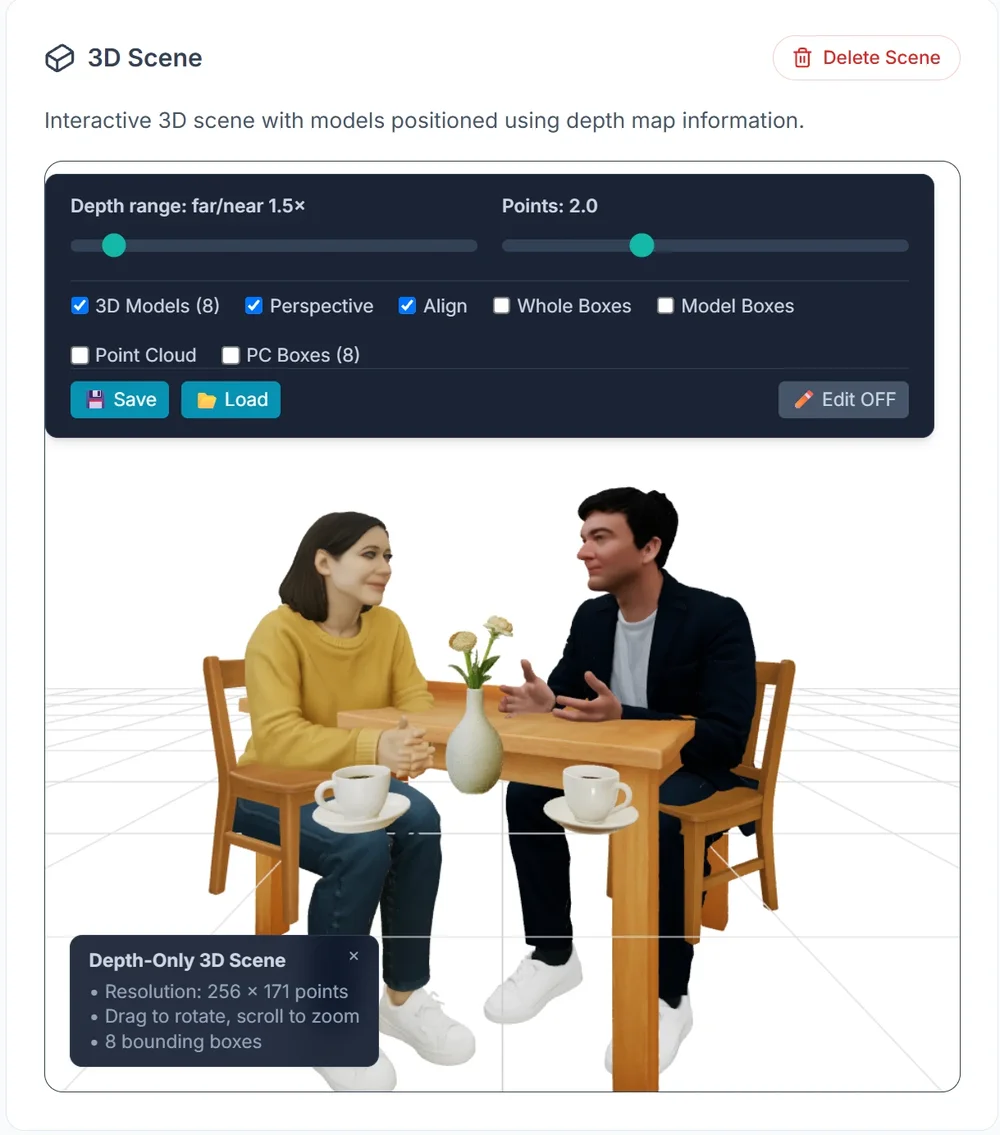
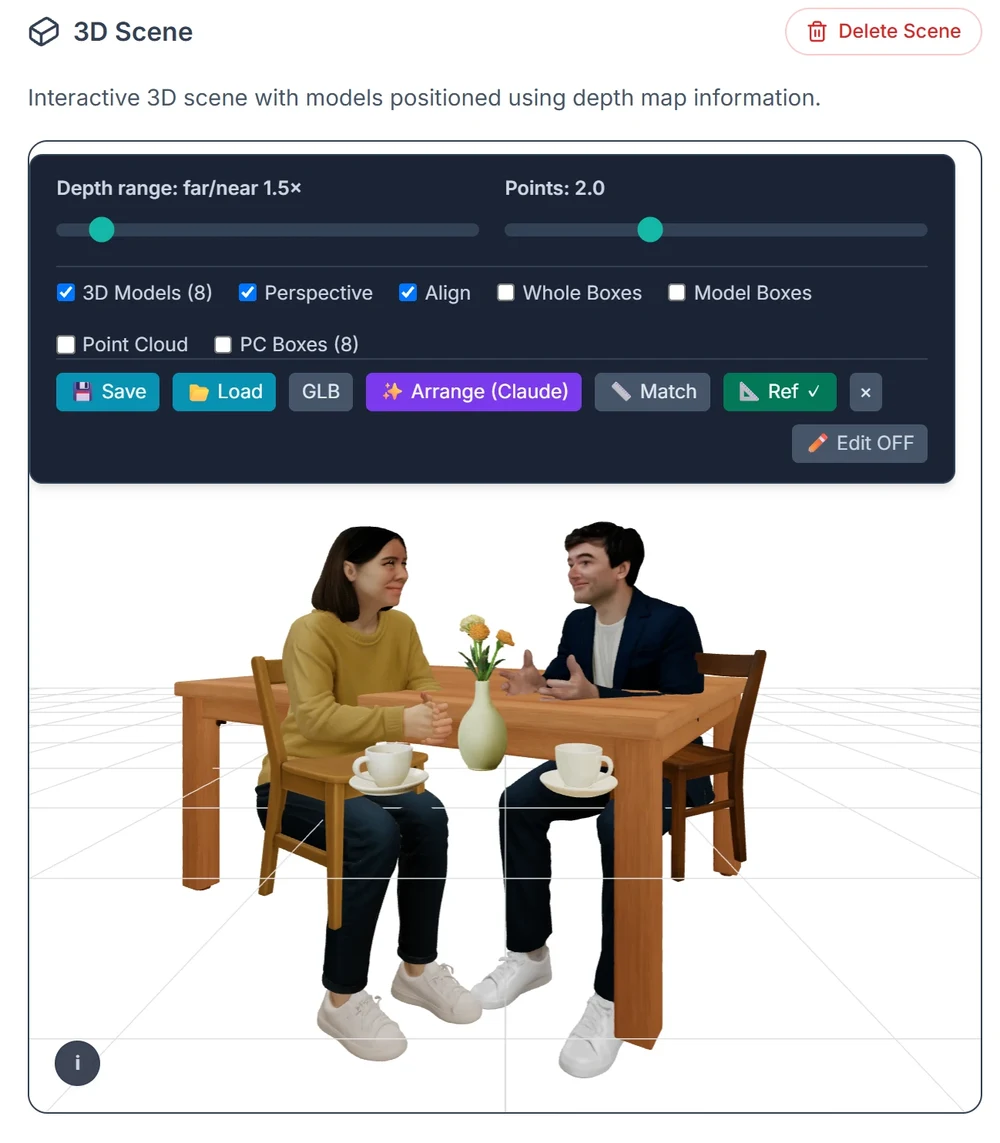
README: before/after images of Arrange; update scene and 3D Scene tab images
Claude-Session: https://claude.ai/code/session_017F2L64VSaLMVjz2Lii7x6Z

diff --git a/README.md b/README.md
@@ -68,7 +68,7 @@ Results of the current version. Detection and completion use OpenAI (only the ri
   </tr>
   <tr>
     <td width="50%"><img src="docs/images/scene-result.webp" alt="3D scene"><br><sub><b>Scene composition</b> — the 8 objects are placed with perspective at the depth of their PC Boxes. The chairs, of which only the backrests are visible, stand behind the people; the table, visible only as the front of its top, is still placed only roughly.</sub></td>
-    <td width="50%"><img src="docs/images/step7-scene-ui.webp" alt="3D scene with its controls"><br><sub><b>3D Scene tab</b> — the scene and its controls: depth range, point size, <b>Perspective</b>, <b>Align</b> (front alignment), boxes and point cloud, <b>Save</b> / <b>Load</b> of the layout, and <b>Edit</b> for moving models by hand.</sub></td>
+    <td width="50%"><img src="docs/images/step7-scene-ui.webp" alt="3D scene with its controls"><br><sub><b>3D Scene tab</b> — the scene and its controls: depth range, point size, <b>Perspective</b>, <b>Align</b> (front alignment), boxes and point cloud, <b>Save</b> / <b>Load</b> of the layout, <b>GLB</b> export, <b>✨ Arrange</b> (semantic arrangement with AI), <b>Match</b> (photo match), <b>Ref</b> (reference analysis for evaluation), and <b>Edit</b> for moving models by hand.</sub></td>
   </tr>
   <tr>
     <td width="50%"><img src="docs/images/scene-edited.webp" alt="3D scene edited by hand"><br><sub><b>Edited by hand</b> — the table and chairs of the sample moved and resized in edit mode (<b>Edit ON</b>, Move and Scale), seen from above: the cups and the vase now stand on the table and the people sit on their chairs.</sub></td>
@@ -140,6 +140,14 @@ The best final runs with Claude (`claude-opus-5-5`, effort high, at most 6 round
 - **The weighted photo match counts each object by its area in the photo.** Objects seen only as thin strips at the borders (the chairs) or hidden behind others otherwise weigh as much as the people in the mean. `office-desk` matched the photo well from the start, so it changed little.
 - **In `table-talk`, the analysis matches the photo.** It reads that the two people sit on both sides of a corner of the table. The model keeps the table corner-on, as front alignment measured it, and puts the corner between them. In this run the generated table was about 4 m wide; the model scaled it down to real size.
 
+<table>
+  <tr>
+    <td width="33%"><img src="samples/table-talk.webp" alt="Input photo of table-talk"><br><sub><b>Photo</b> — two people sit on both sides of a corner of the table.</sub></td>
+    <td width="33%"><img src="docs/images/arrange-table-talk-before.webp" alt="Scene before Arrange, with a huge table"><br><sub><b>Before Arrange</b> — automatic placement: the generated table is about 4 m wide and stands behind the people; cups and chairs float.</sub></td>
+    <td width="33%"><img src="docs/images/arrange-table-talk-after-claude.webp" alt="Scene after Arrange with Claude"><br><sub><b>After Arrange (Claude)</b> — the table at real size in front of the people, kept corner-on; cups and vase on the top, each person on a chair. Physical issues 7 → 0.</sub></td>
+  </tr>
+</table>
+
 Claude and OpenAI (`gpt-5.6-sol`) on the same four scenes (same models, same starting placement):
 
 | | Claude | OpenAI |
@@ -151,6 +159,13 @@ Claude and OpenAI (`gpt-5.6-sol`) on the same four scenes (same models, same sta
 | Error of the real heights in the analysis | **2.9%** | 12.2% |
 | Objects other than people stretched along one axis | 3 (tables and a desk generated too low) | 10 (cups, chairs, a wastebasket, a lamp; tables flattened) |
 | Rounds, mean | **3.0** | 5.0 |
+
+<table>
+  <tr>
+    <td width="50%"><img src="docs/images/arrange-table-talk-after-claude.webp" alt="table-talk after Arrange with Claude"><br><sub><b>Claude</b> — the table top keeps the shape of the generated model; the table was shrunk to real size (photo match 0.509, weighted 0.637).</sub></td>
+    <td width="50%"><img src="docs/images/arrange-table-talk-after-openai.webp" alt="table-talk after Arrange with OpenAI"><br><sub><b>OpenAI</b> — the same scene; the table's depth was cut to about a third (its width only to 0.8) to fit its partly hidden outline in the photo, so it became long and narrow (photo match 0.575, weighted 0.656).</sub></td>
+  </tr>
+</table>
 
 - **Understanding of relations:** both models understand the relations about equally well.
 - **Real sizes:** they differ in estimating real sizes, and in whether they keep the objects' shapes. OpenAI raised the photo match on one photo by flattening the table to fit its partly hidden outline, and it lowered the match on `woman-at-desk`.
@@ -164,6 +179,14 @@ Claude and OpenAI (`gpt-5.6-sol`) on the same four scenes (same models, same sta
   - the far section of an L-shaped desk generated too thin, because its depth is not visible in the photo.
 - **Relation checks use bounding boxes.** They cannot represent non-convex furniture such as an L-shaped desk.
 - **Most of the relations the analysis misses are front-to-back orders** between small objects (a vase and a cup).
+
+<table>
+  <tr>
+    <td width="50%"><img src="samples/woman-at-desk.webp" alt="Input photo of woman-at-desk"><br><sub><b>Photo</b> (not used for development) — a woman at the inner corner of an L-shaped desk.</sub></td>
+    <td width="50%"><img src="docs/images/arrange-woman-at-desk-after-claude.webp" alt="woman-at-desk after Arrange with Claude"><br><sub><b>After Arrange (Claude)</b> — the woman in the corner of the L, items on the desk, shelves and lamp on the floor (physical issues 8 → 0). The far section of the desk was generated too thin: its depth is not visible in the photo.</sub></td>
+  </tr>
+</table>
+
 
 ## Requirements
 

diff --git a/CHANGELOG.md b/CHANGELOG.md
@@ -59,7 +59,7 @@ User interface and documentation:
 
 ### Changed
 
-- README (English and Japanese): a section on **Arrange**: the two stages (analysis of the photo, then placement in rounds), why the instructions are not tailored to the test photos (developed on two photos, tested unchanged on two others), the evaluation with reference analyses, the results of the final runs (Claude on four photos, compared with OpenAI) and the limits seen.
+- README (English and Japanese): a section on **Arrange**: the two stages (analysis of the photo, then placement in rounds), why the instructions are not tailored to the test photos (developed on two photos, tested unchanged on two others), the evaluation with reference analyses, the results of the final runs (Claude on four photos, compared with OpenAI) and the limits seen, with before/after images of the 3D scene. The walkthrough images of the scene and the 3D Scene tab were updated (the tab now shows Arrange, Match and Ref).
 - Default Gemini models: `gemini-3-pro-preview` → `gemini-pro-latest`, `gemini-3-pro-image-preview` (shut down) → `gemini-3-pro-image`. Gemini calls use the `v1beta` API explicitly (SDK 3.x defaults to `v1`, where such aliases return 404). API keys can be entered in the app; the Google AI Studio key-selection integration was removed.
 - JSON output of all vision tasks is enforced with each provider's structured-output feature; the detection result is wrapped as `{"objects": [...]}`.
 - AKAZE matching (now only the fallback of layout-preserving completion): the homography (8 parameters) is replaced by a RANSAC fit of uniform scale + translation (3 parameters), the completed image is searched at 1, 1/2 and 1/4 scale, and transparent pixels are composited on white. Matches with too few agreeing points or boxes outside the image are rejected, so the whole-object box is used instead. (The paper, Eq. (2), uses a homography.)
